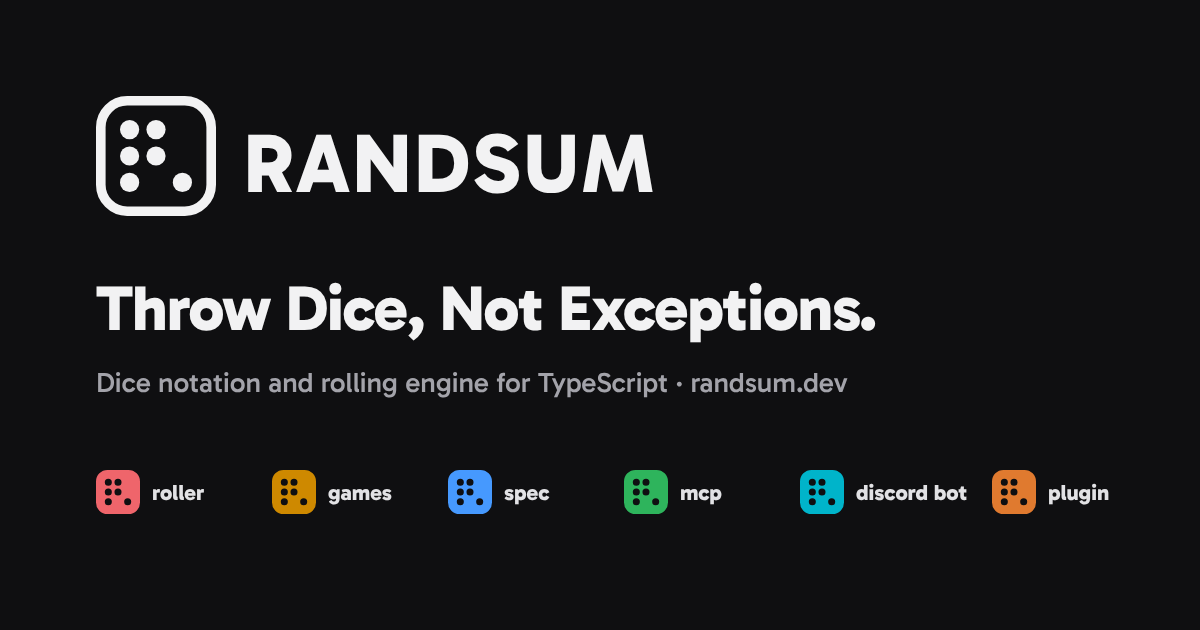
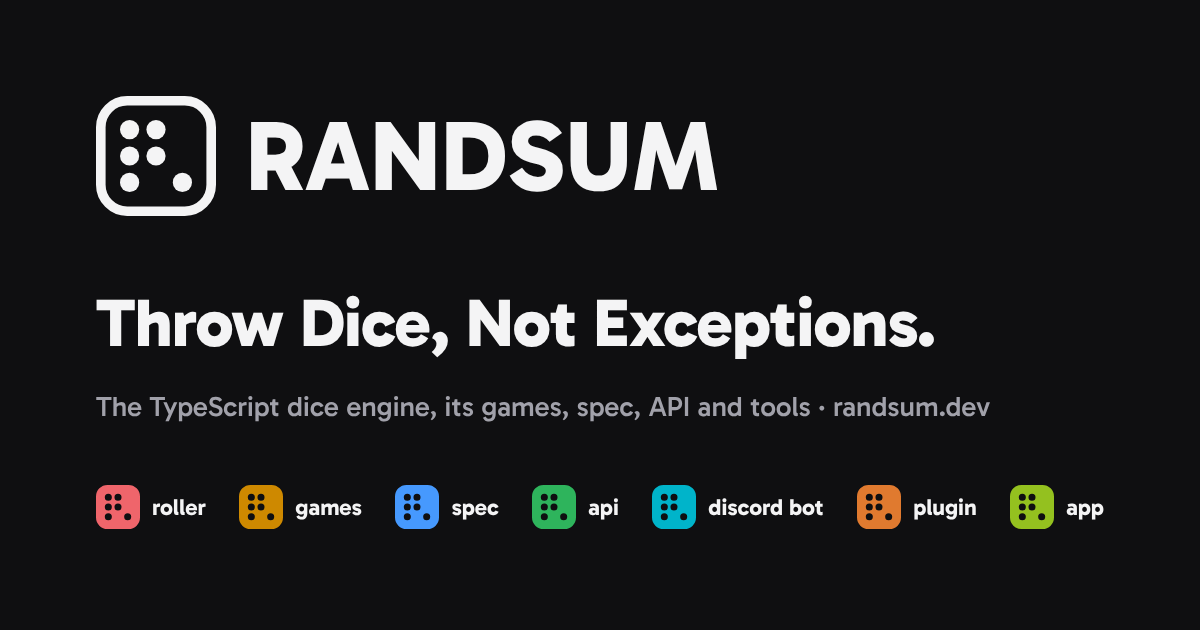
fix(site): new social card, one Discord page, /spec/ as the spec's canonical
- og-image.png and the GitHub social card show the current family (api in
  place of mcp, and the app)
- /discord/ is merged into /tools/discord-bot/ (screenshots moved over) and
  301s there, so the two no longer compete in search
- /spec/ is canonical for the latest spec version and the only spec page in
  the sitemap and search index; older versions stay canonical to themselves
  (ADR-016 amended)
- The spec header is no longer a second h1, and the spec's metadata points at
  randsum.dev/spec/ instead of notation.randsum.dev

Claude-Session: https://claude.ai/code/session_013i5gC3JsXx7GRtHgbzc9Rh

Changed region(s): [[0.0617, 0.4524, 0.8325, 0.6635], [0.0617, 0.7238, 0.925, 0.8444], [0.185, 0.181, 0.6167, 0.3317]]

diff --git a/apps/site/__tests__/spec-build.test.ts b/apps/site/__tests__/spec-build.test.ts
@@ -28,19 +28,17 @@ describe.skipIf(root === '' || versioned === '')('built /spec pages', () => {
   })
 
   // The root and the latest version page render the same spec, so both name
-  // the versioned URL as canonical and both carry Appendix H.
+  // /spec/ as canonical and both carry Appendix H.
   test.each([
     ['/spec/', root],
     ['/spec/v/0.9.0/', versioned]
-  ])('%s is canonical to /spec/v/0.9.0/ and carries Appendix H', (_, html) => {
-    expect(html.includes('<link rel="canonical" href="https://randsum.dev/spec/v/0.9.0/">')).toBe(
-      true
-    )
+  ])('%s is canonical to /spec/ and carries Appendix H', (_, html) => {
+    expect(html.includes('<link rel="canonical" href="https://randsum.dev/spec/">')).toBe(true)
     expect(html.includes('id="appendix-h"')).toBe(true)
   })
 
   test('only the canonical page is in the search index', () => {
-    expect(root.includes('data-pagefind-body')).toBe(false)
-    expect(versioned.includes('data-pagefind-body')).toBe(true)
+    expect(root.includes('data-pagefind-body')).toBe(true)
+    expect(versioned.includes('data-pagefind-body')).toBe(false)
   })
 })

diff --git a/apps/site/src/utils/product.ts b/apps/site/src/utils/product.ts
@@ -9,7 +9,6 @@ const PREFIXES: readonly (readonly [string, Product])[] = [
   ['/spec', 'spec'],
   ['/api/', 'api'],
   ['/tools/discord-bot', 'discord'],
-  ['/discord', 'discord'],
   // The plugin product is every agent surface: skills, the MCP server, the connector
   ['/tools/agents', 'plugin'],
   ['/tools/mcp', 'plugin'],
@@ -213,7 +212,6 @@ const HERO_PAGES: Readonly<Record<string, Product>> = {
   '/api/introduction/': 'api',
   '/tools/discord-bot/': 'discord',
   '/tools/claude-code-plugin/': 'plugin',
-  '/discord/': 'discord',
   '/app/': 'app'
 }
 

diff --git a/apps/site/AGENTS.md b/apps/site/AGENTS.md
@@ -78,8 +78,9 @@ imported only by `SpecLayout`, since its resets are global to the page.
 
 - Versions live in `src/content/specs/` (the `specs` collection). `v0.9.0.md`
   has ID `0.9.0` and is served at `/spec/v/0.9.0/`; `/spec/` renders the latest
-  inline, not as a redirect (ADR-016). Both name `/spec/v/<latest>/` as
-  canonical, and only that page opts into the Pagefind index.
+  inline, not as a redirect (ADR-016). Both name `/spec/` as canonical, only
+  `/spec/` opts into the Pagefind index, and `astro.config.mjs` keeps
+  `/spec/v/<latest>/` out of the sitemap. Older versions are canonical to themselves.
 - `ModifierReference.astro` builds Appendix H from `@randsum/roller/docs`, so it
   renders only on the latest version.
 - `/spec/llms.txt` and `/spec/llms-full.txt` are built from the same entry.
@@ -145,8 +146,8 @@ the games, whose spec samples live in `src/utils/gameSchemas.ts` and render
 server-side behind tabs), and `ClosingCta` and `LandingFooter` show the whole
 family's dice. `landing.css` holds only the page frame and the hero; every
 other section styles itself. `Faq` and the page's
-FAQPage structured data share `LANDING_FAQ` in `src/utils/faq.ts`. There is also a
-`src/pages/discord.astro` route.
+FAQPage structured data share `LANDING_FAQ` in `src/utils/faq.ts`. The Discord bot's
+only page is `/tools/discord-bot/`; `/discord/` 301s there (`public/_redirects`).
 
 ## Adding Content
 

diff --git a/docs/adr/ADR-016-static-version-embedding.md b/docs/adr/ADR-016-static-version-embedding.md
@@ -2,7 +2,7 @@
 
 ## Status
 
-Accepted (amended — originally proposed all-in-one-page embedding, revised to per-version pages for LLM friendliness; amended again to generate `llms.txt` and `llms-full.txt` from the specs collection instead of committing them; amended a third time when the spec moved to `randsum.dev/spec`, so the root and the latest version page both carry `rel=canonical` to `/spec/v/<latest>/`)
+Accepted (amended — originally proposed all-in-one-page embedding, revised to per-version pages for LLM friendliness; amended again to generate `llms.txt` and `llms-full.txt` from the specs collection instead of committing them; amended a third time when the spec moved to `randsum.dev/spec`, so the root and the latest version page both carry `rel=canonical` to `/spec/v/<latest>/`; amended a fourth time so both carry `rel=canonical` to `/spec/` instead, keeping links and rankings on the shared address across releases, with older versions canonical to themselves and only `/spec/` in the sitemap)
 
 ## Context
 

diff --git a/README.md b/README.md
@@ -157,7 +157,7 @@ steps — see [`docs/operations.md`](docs/operations.md).
 
 RANDSUM is actively evolving. Track in-flight epics on the [public project board](https://github.com/orgs/RANDSUM/projects/2/views/1) — published packages, upcoming game systems (Pathfinder 2e, Ironsworn), the typed notation template literal layer, and the dice mechanic spec format are all queued there.
 
-- **Discord:** [randsum.dev/discord](https://randsum.dev/discord/) — questions, feedback, game requests
+- **Discord bot:** [randsum.dev/tools/discord-bot](https://randsum.dev/tools/discord-bot/)
 - **Issues & ideas:** [GitHub Issues](https://github.com/RANDSUM/randsum/issues)
 - **Open PRs:** see [`CONTRIBUTING.md`](CONTRIBUTING.md) for the dev loop
 

diff --git a/apps/site/src/content/specs/v0.9.0.md b/apps/site/src/content/specs/v0.9.0.md
@@ -14,7 +14,7 @@ This document defines the RANDSUM Dice Notation (RDN), a human-readable, machine
 
 - **Authors:** Alex Jarvis (alxjrvs@gmail.com)
 - **Project:** https://github.com/RANDSUM/randsum
-- **Specification Site:** https://notation.randsum.dev
+- **Specification Site:** https://randsum.dev/spec/
 - **Documentation:** https://randsum.dev
 
 ## Status of This Memo
